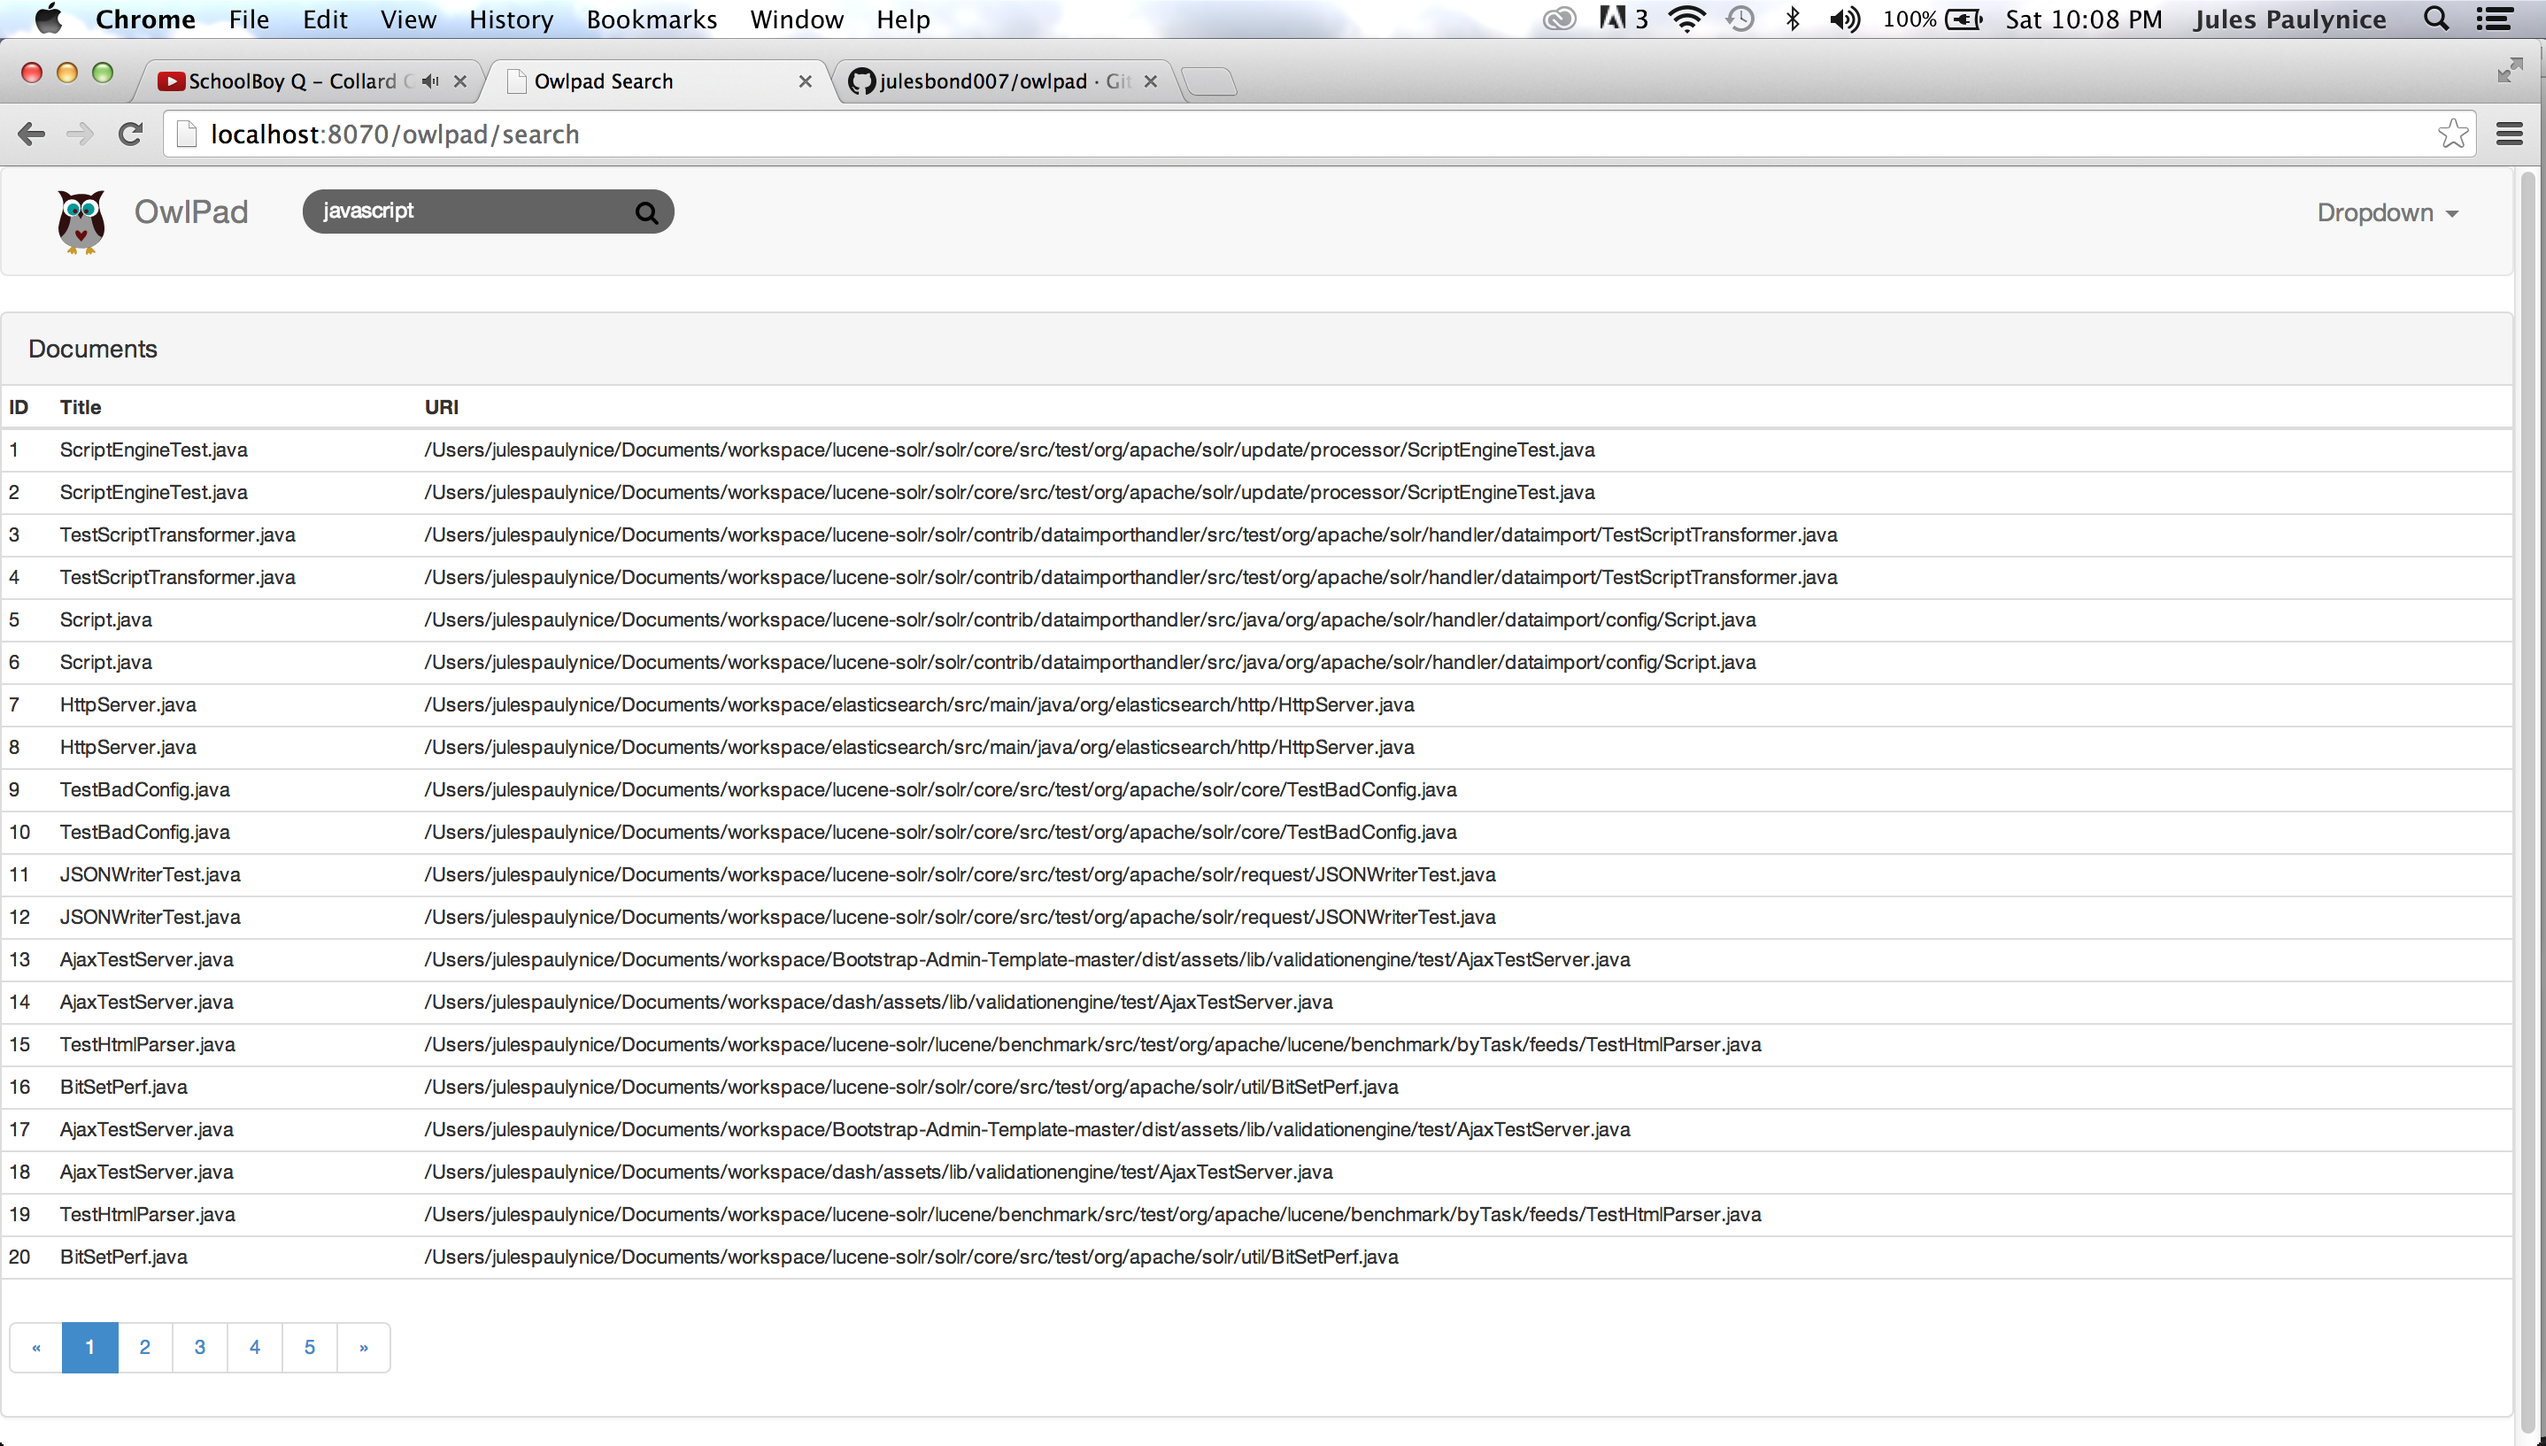
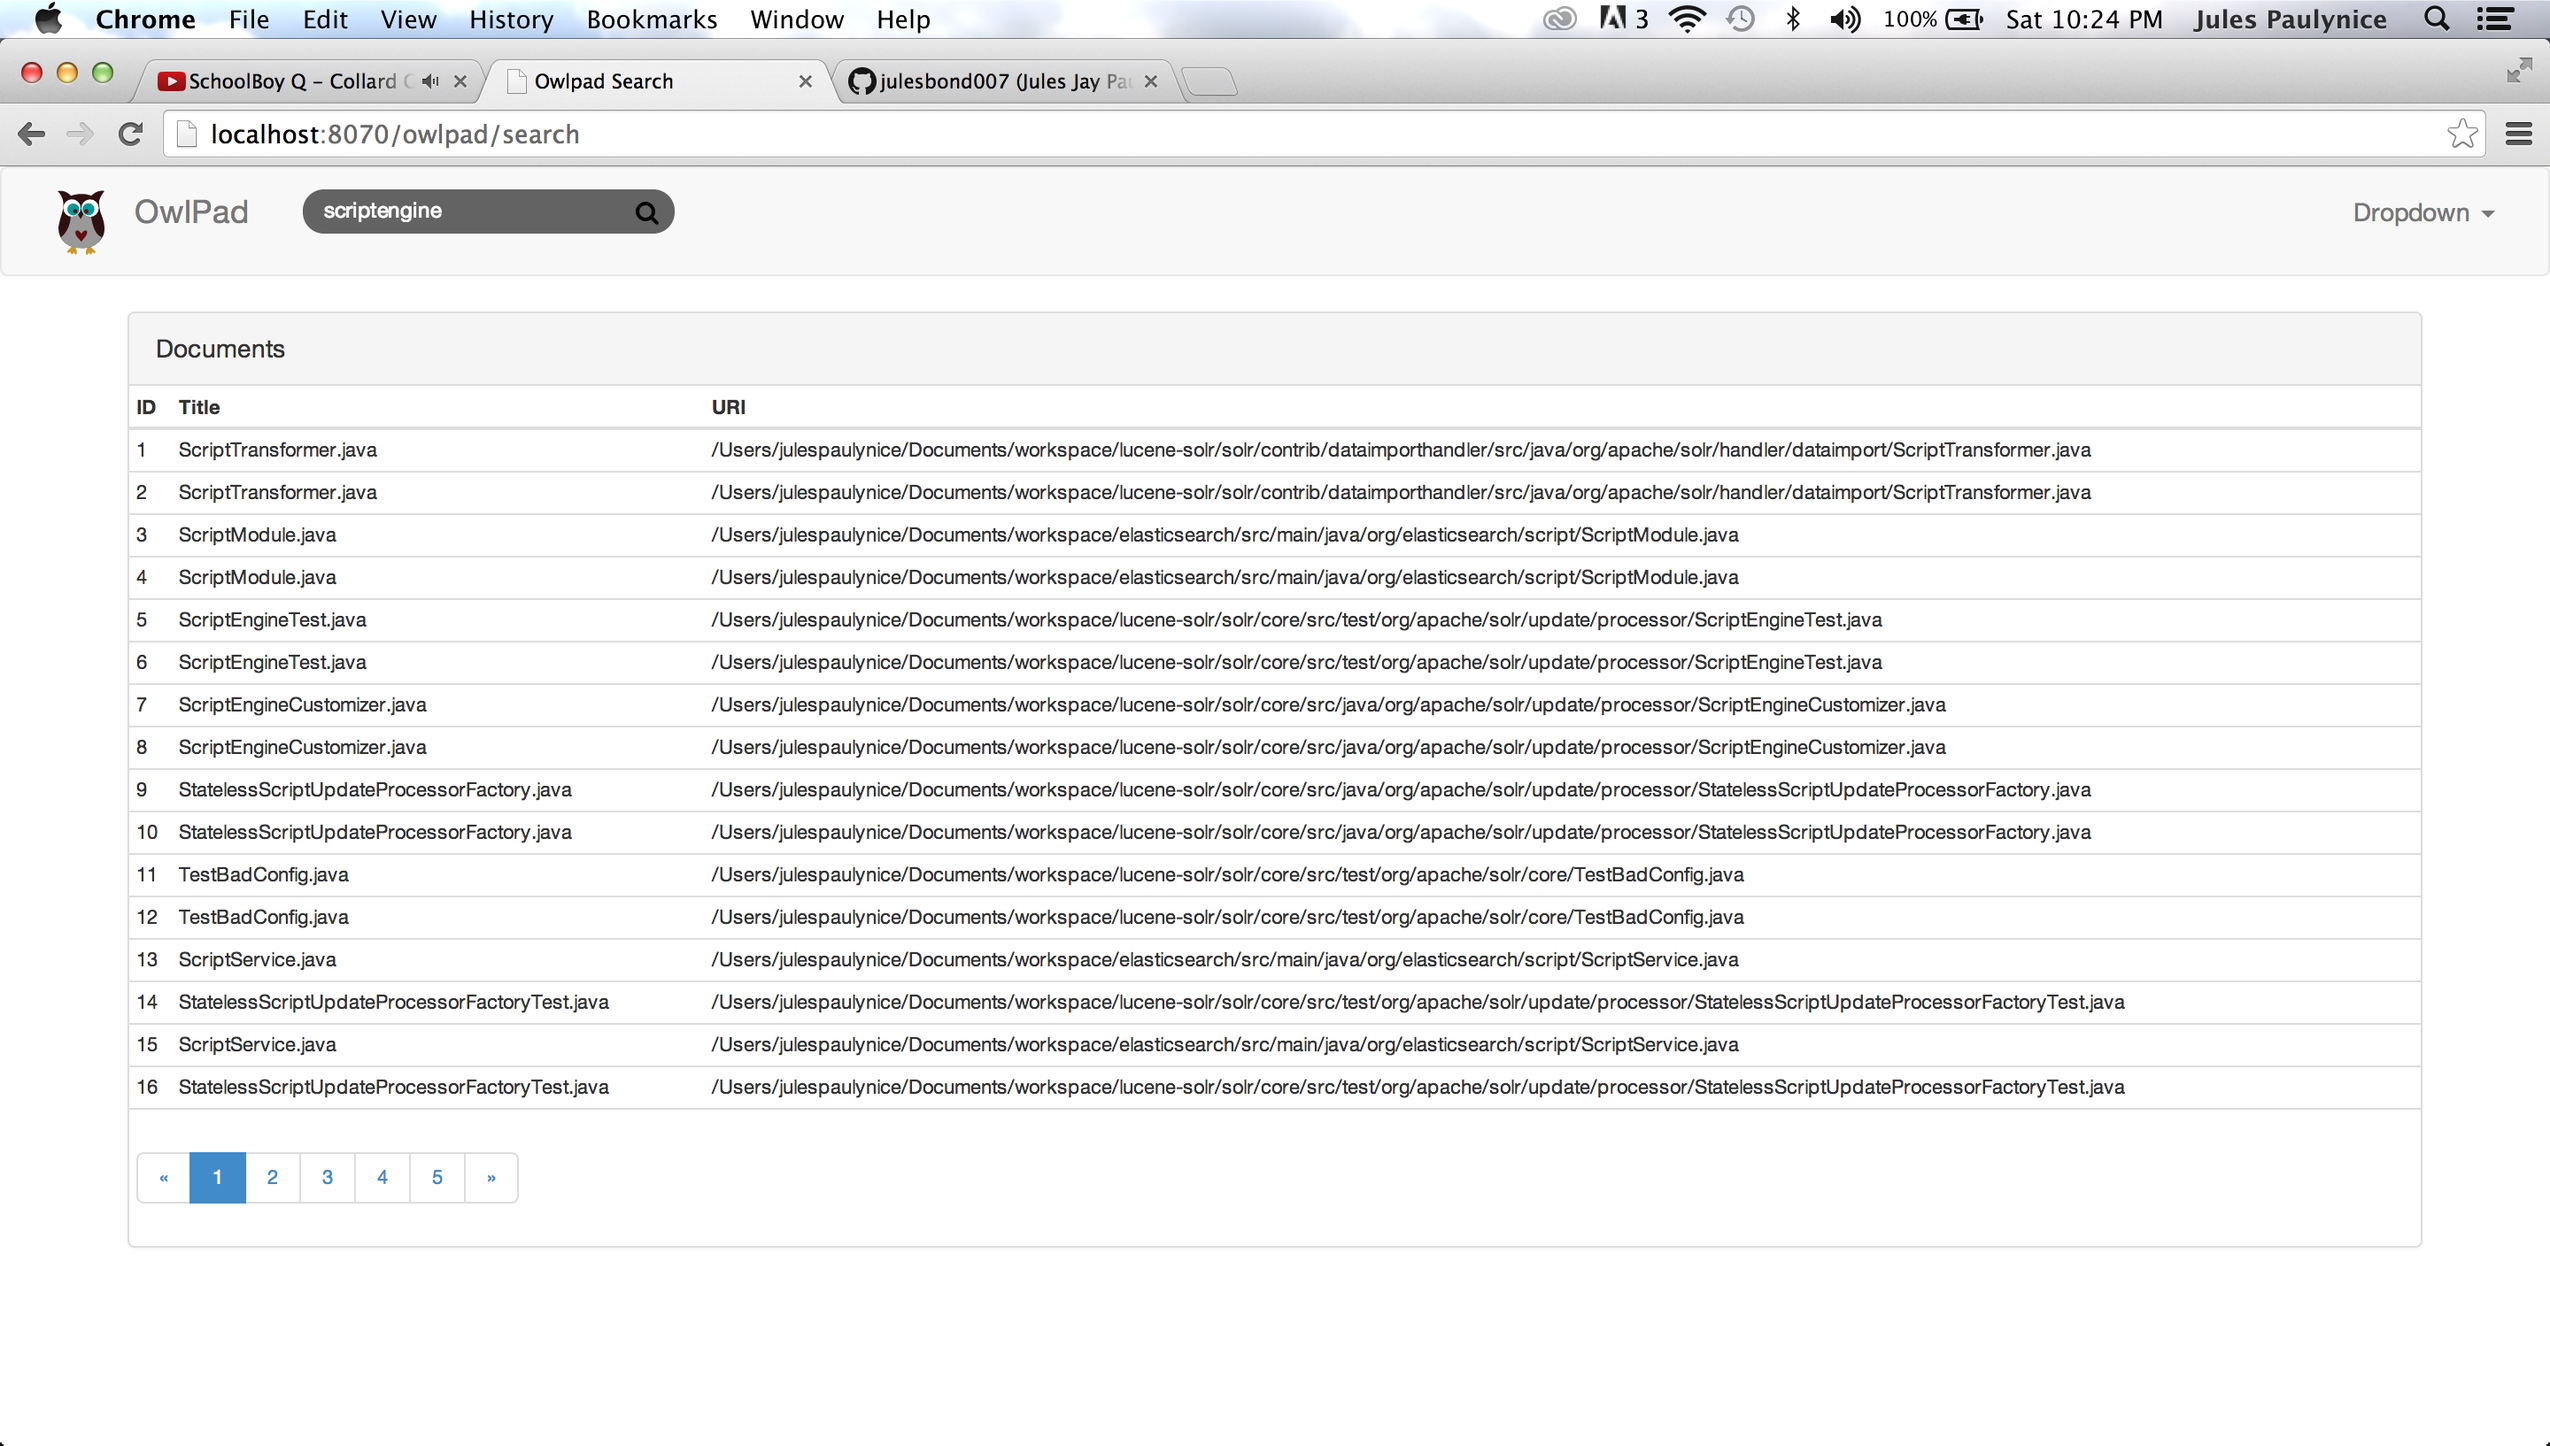
improve search ui design

diff --git a/owlpad-app/src/main/webapp/resources/css/styles.css b/owlpad-app/src/main/webapp/resources/css/styles.css
@@ -148,3 +148,9 @@ i.fa.fa-search{
 	margin-left: 188px;
 	margin-top: 10px;
 }
+
+.panel-default{
+	margin-left:auto;
+	margin-right:auto;
+	width:90%;
+}
